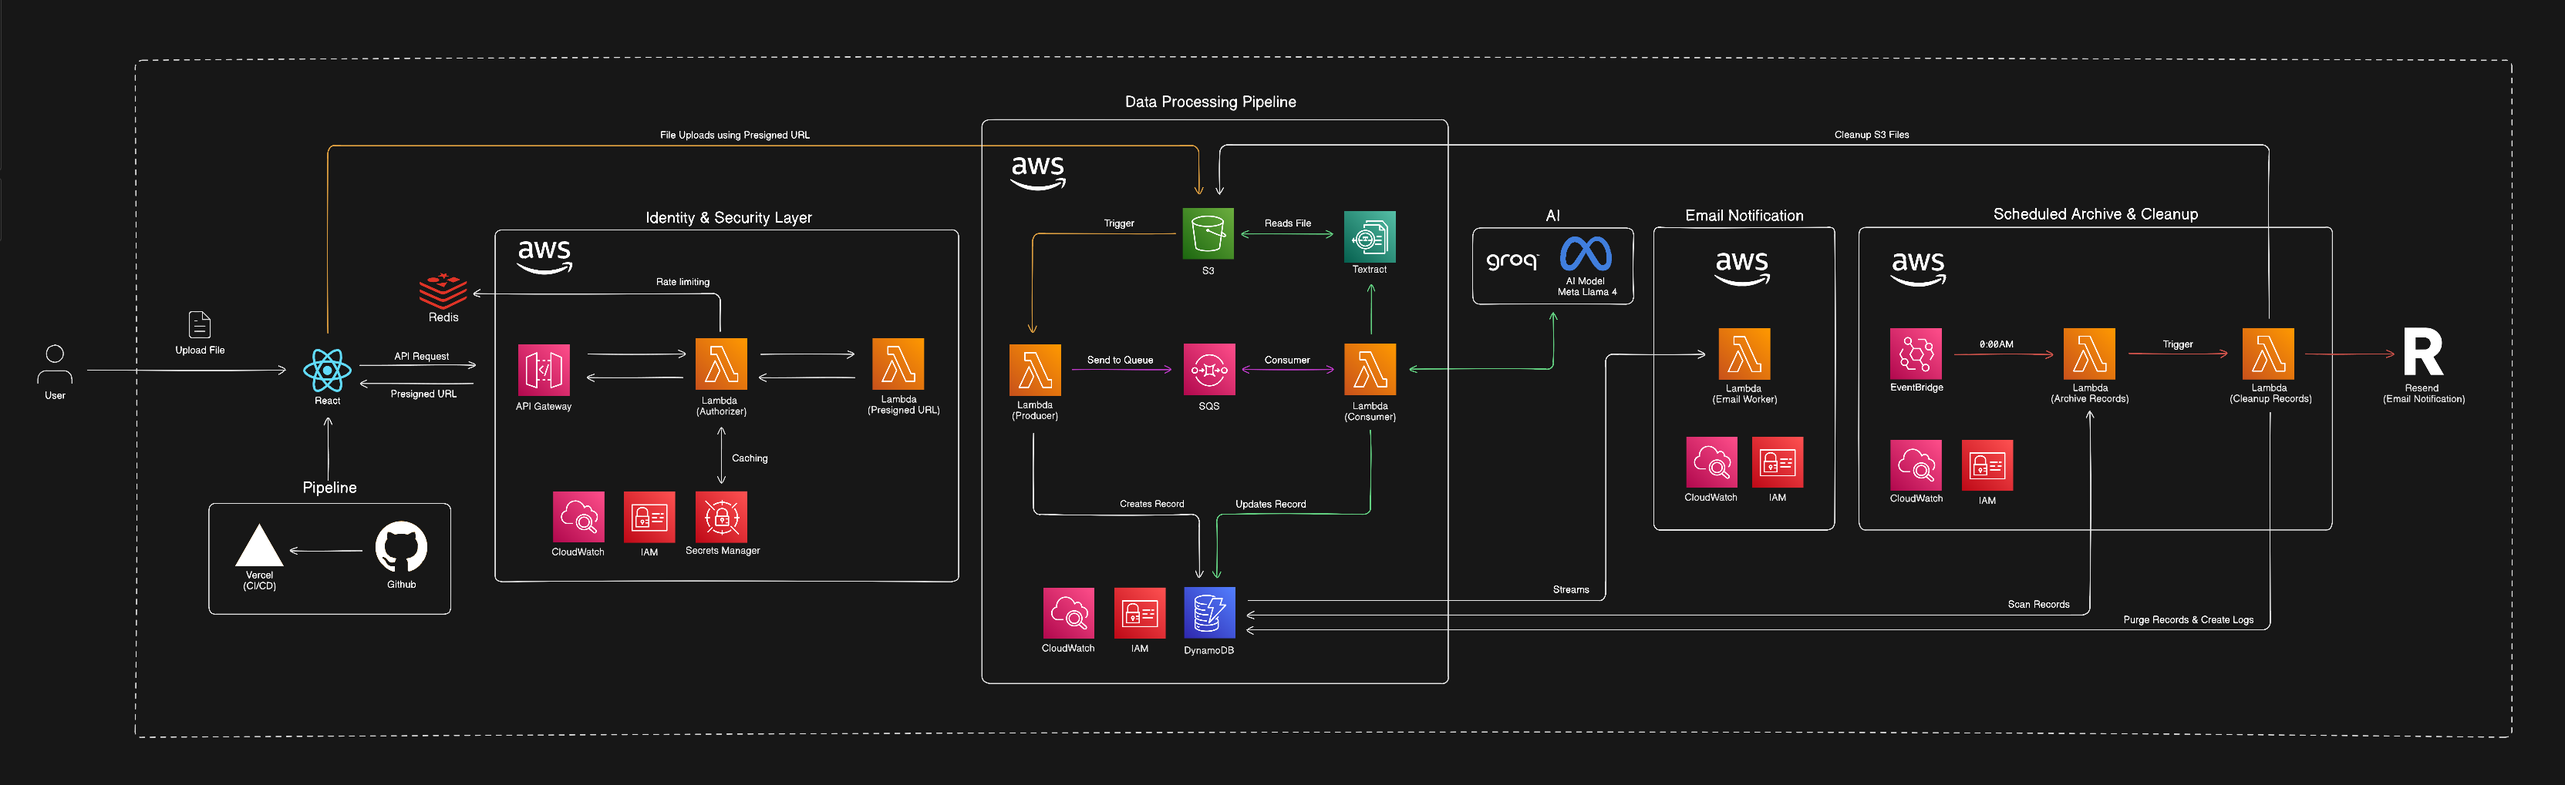
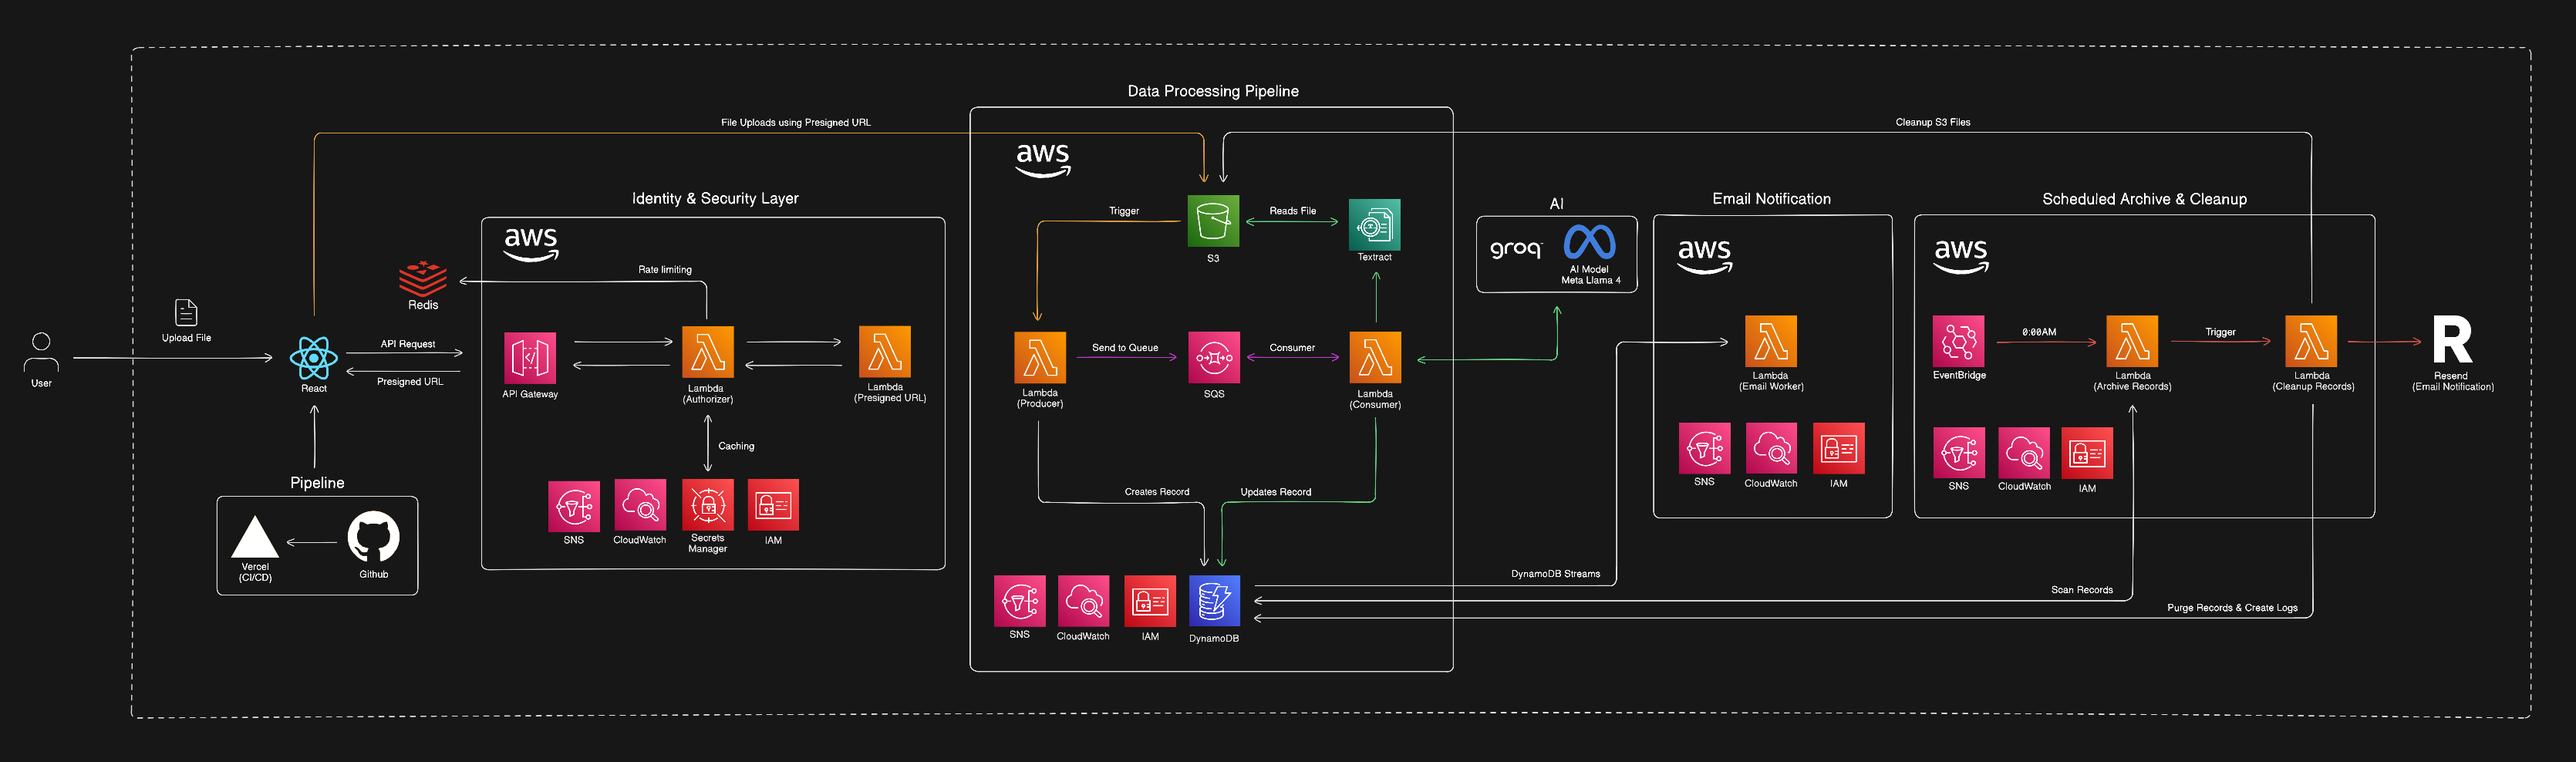
add SNS in readme

diff --git a/readme.md b/readme.md
@@ -48,6 +48,10 @@ A consumer Lambda processes queued tasks to execute summarization via [AI Groq L
       <td style="white-space: nowrap;">AWS SQS</td>
       <td>Message queue used to decouple CV upload events from AI processing tasks.</td>
     </tr>
+     <tr>
+      <td style="white-space: nowrap;">AWS SNS</td>
+      <td>Notification service used to capture and send alerts for Lambda errors.</td>
+    </tr>
     <tr>
       <td style="white-space: nowrap;">AWS Textract</td>
       <td>Extract text from uploaded CV files (PDFs or images), allowing the system to process and summarize.</td>
@@ -252,13 +256,11 @@ PRESIGNED_URL_EXPIRES=300
 DYNAMODB_TABLE_NAME=
 DYNAMODB_LOG_TABLE=
 SQS_QUEUE_URL=
+SNS_ERROR_TOPIC_ARN=
 
 # UpStash (Redis)
 UPSTASH_REDIS_REST_URL=
 UPSTASH_REDIS_REST_TOKEN=
-
-# MongoDB URI Connection
-MONGODB_URI=
 
 # Groq AI
 AI_API_KEYS=
